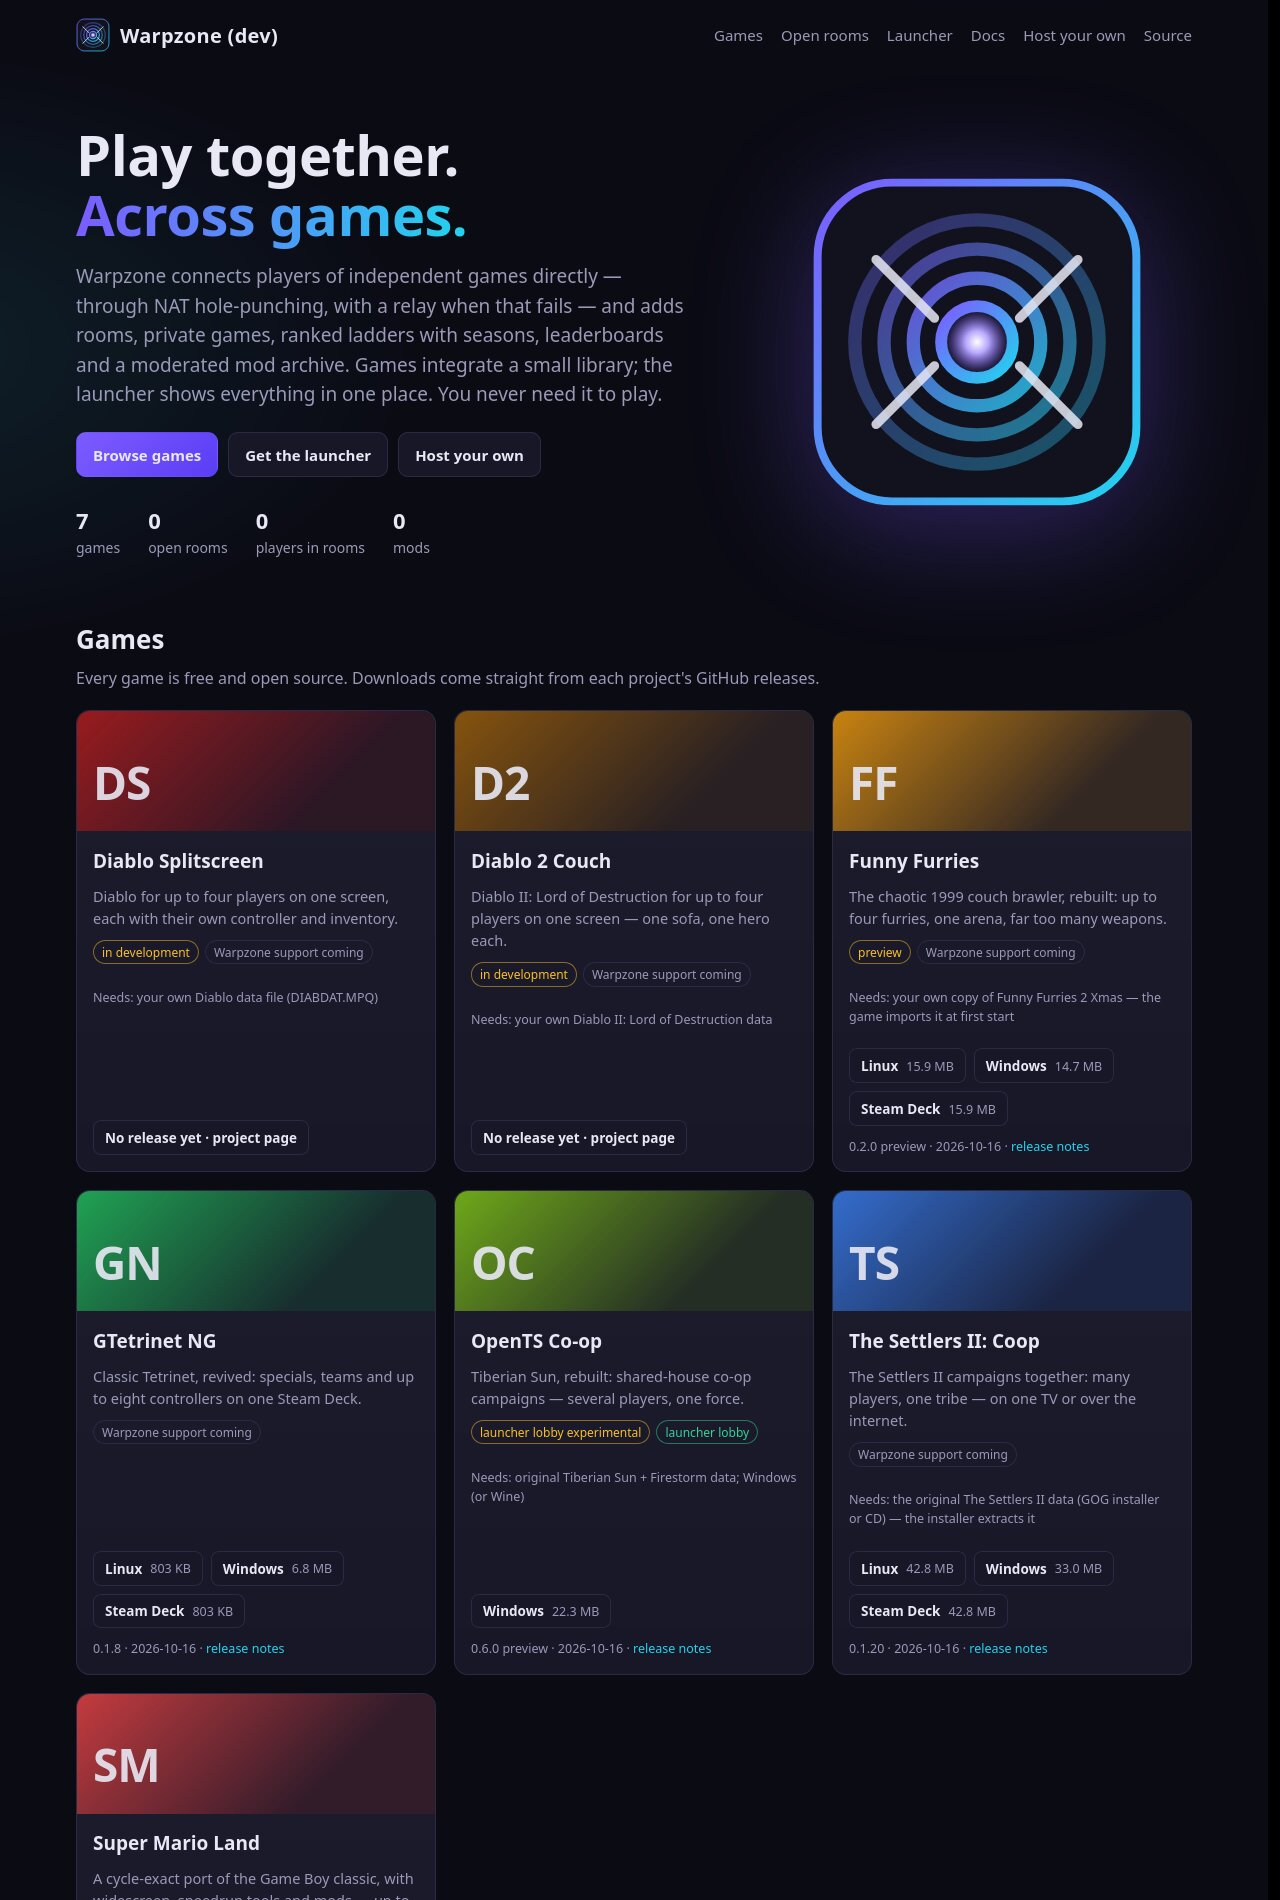
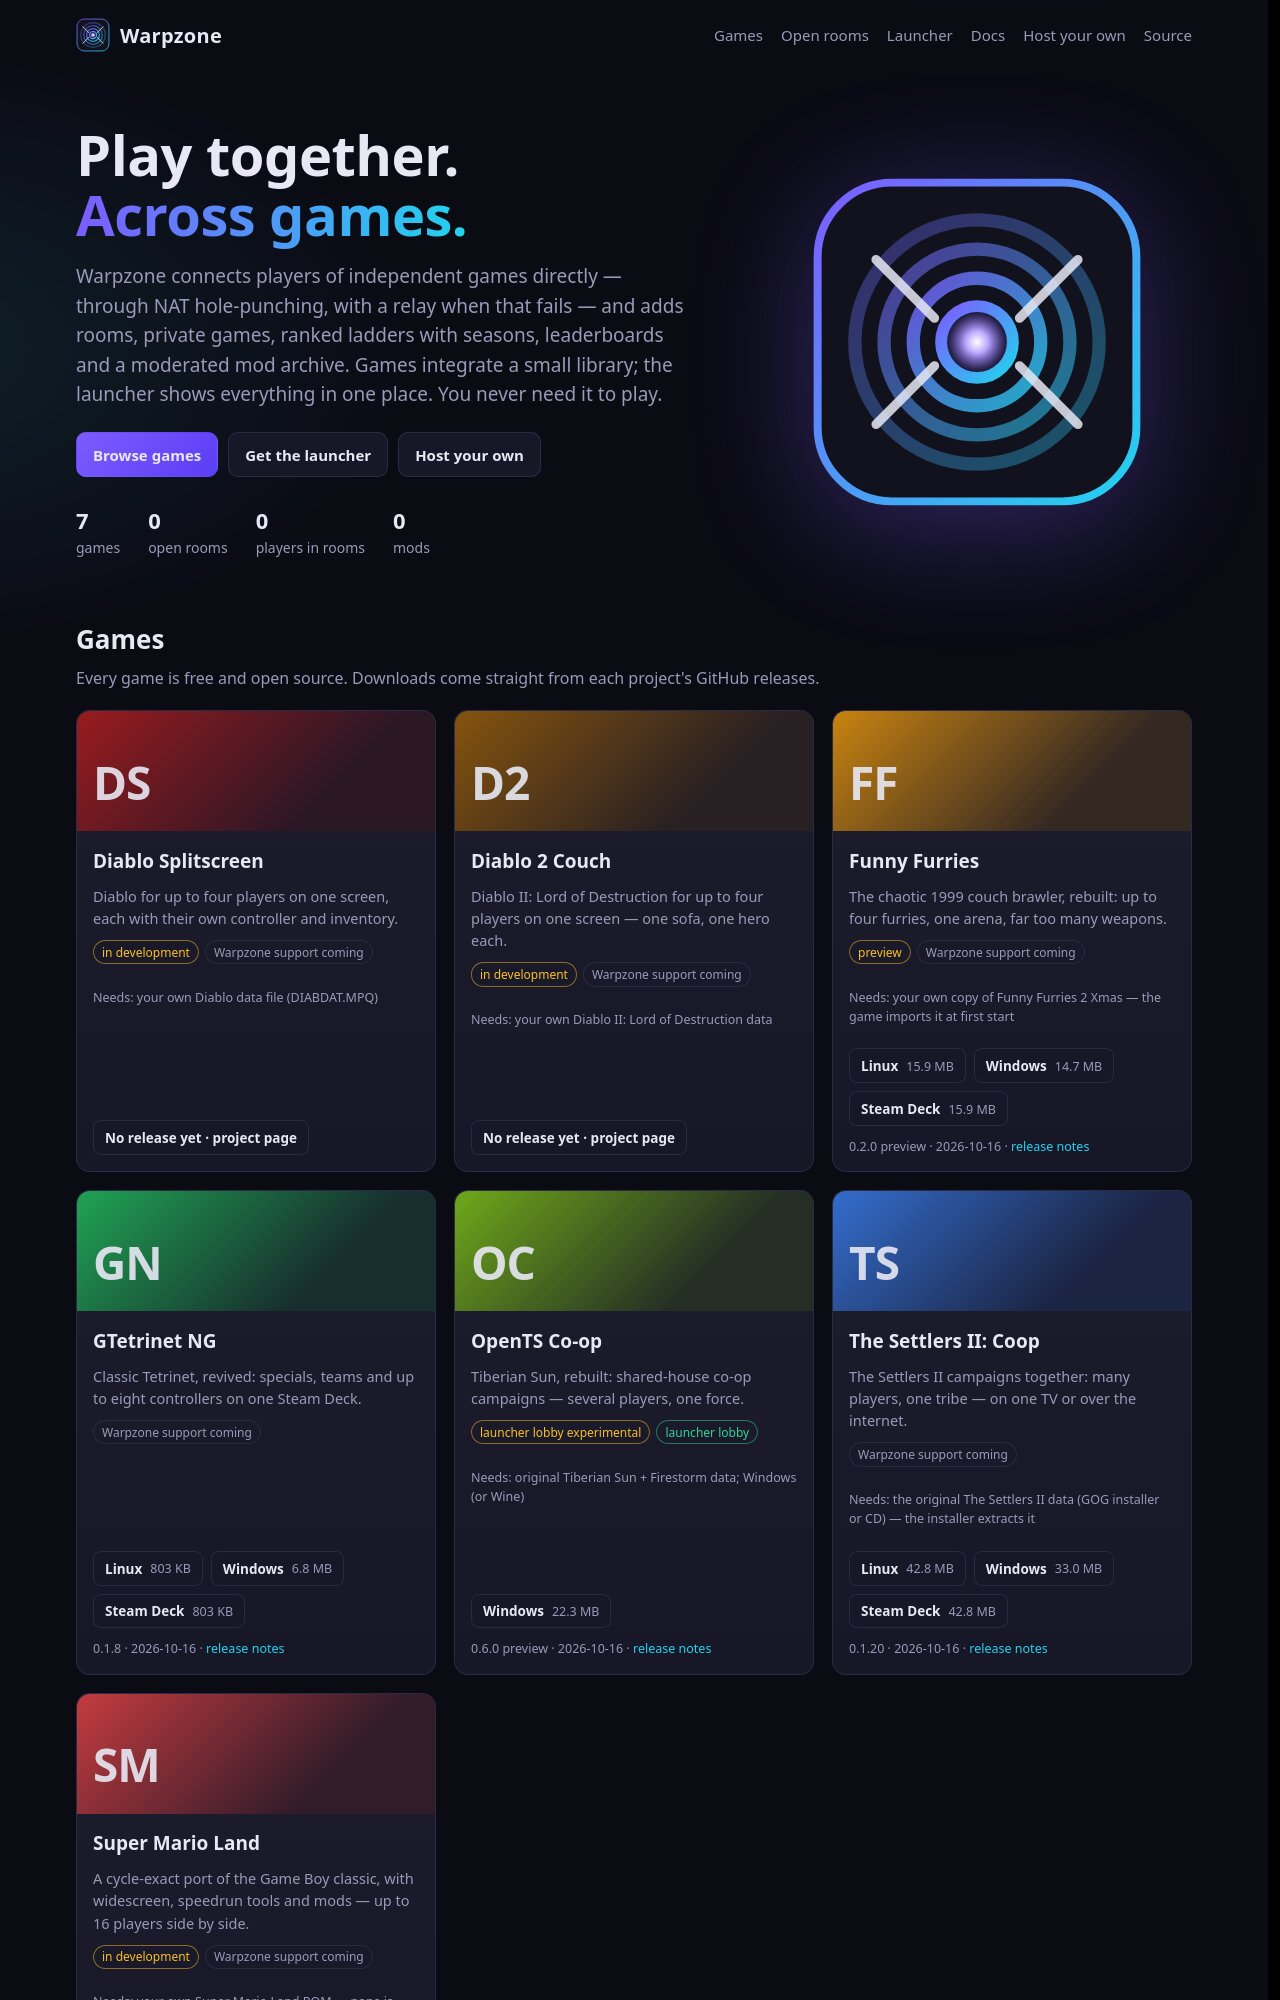
website: generated hero artwork per game (games/art, served from the games directory)

diff --git a/crates/server/src/web.rs b/crates/server/src/web.rs
@@ -92,14 +92,21 @@ fn page(state: &AppState, title: &str, description: &str, body: &str) -> Html<St
     ))
 }
 
-fn banner(g: &GameDescriptor) -> String {
+/// Generated tile artwork next to the descriptors (`games/art/<id>.jpg`,
+/// written by `warpzone --render-art`), if there is no `art` URL.
+fn art_url(state: &AppState, g: &GameDescriptor) -> Option<String> {
+    g.art.clone().or_else(|| state.cfg.games_dir.join("art").join(format!("{}.jpg", g.id)).is_file().then(|| format!("/art/{}.jpg", g.id)))
+}
+
+fn banner(state: &AppState, g: &GameDescriptor) -> String {
     let initials: String = g.name.split_whitespace().filter_map(|w| w.chars().next()).take(2).collect();
-    let img = g.art.as_ref().map(|a| format!(r#"<img src="{}" alt="" loading="lazy">"#, esc(a))).unwrap_or_default();
+    let art = art_url(state, g);
+    let img = art.as_ref().map(|a| format!(r#"<img src="{}" alt="">"#, esc(a))).unwrap_or_default();
     format!(
         r#"<div class="banner" style="background:linear-gradient(135deg,{acc}cc,{acc}22 70%),#151526">{img}<span class="initials">{ini}</span></div>"#,
         acc = esc(&g.accent),
         img = img,
-        ini = if g.art.is_some() { String::new() } else { esc(&initials) }
+        ini = if art.is_some() { String::new() } else { esc(&initials) }
     )
 }
 
@@ -233,7 +240,7 @@ pub async fn index(State(state): State<AppState>) -> Html<String> {
         let _ = write!(
             cards,
             r#"<article class="card">{banner}<div class="body"><h3><a href="/games/{id}">{name}</a></h3><p class="tagline">{tag}</p>{badges}{req}{dl}</div></article>"#,
-            banner = banner(g),
+            banner = banner(&state, g),
             id = esc(&g.id),
             name = esc(&g.name),
             tag = esc(&g.tagline),
@@ -300,13 +307,17 @@ pub async fn game_page(State(state): State<AppState>, Path(id): Path<String>) ->
     let Ok(g) = state.game(&id) else { return not_found(&state) };
     let rooms = list_public(&state, &RoomQuery { game: Some(id.clone()), ..Default::default() });
     let rel = state.releases.read().unwrap().get(&id).cloned();
+    let hero = art_url(&state, &g)
+        .map(|a| format!(r#"<img src="{}" alt="" style="width:100%;max-height:300px;object-fit:cover;border-radius:14px;margin-top:20px">"#, esc(&a)))
+        .unwrap_or_default();
     let mut body = format!(
-        r#"<div class="game-head"><div><h1>{name}</h1><p class="lead muted" style="margin:0">{tag}</p>{badges}</div>
+        r#"{hero}<div class="game-head"><div><h1>{name}</h1><p class="lead muted" style="margin:0">{tag}</p>{badges}</div>
 <div>{home}</div></div>"#,
         name = esc(&g.name),
         tag = esc(&g.tagline),
         badges = badges(&g, rooms.len()),
         home = g.homepage.as_ref().map(|h| format!(r#"<a class="btn" href="{}">Project page</a>"#, esc(h))).unwrap_or_default(),
+        hero = hero,
     );
     let _ = write!(body, r#"<section><div class="panel">{}</div>"#, downloads(rel.as_ref(), g.homepage.as_deref()));
     if !g.description.is_empty() {
@@ -616,6 +627,16 @@ pub fn not_found(state: &AppState) -> Response {
 
 pub async fn fallback(State(state): State<AppState>) -> Response {
     not_found(&state)
+}
+
+/// `/art/<id>.jpg` from `games_dir/art/`.
+pub async fn art_file(State(state): State<AppState>, Path(file): Path<String>) -> Result<Response, ApiError> {
+    let ok = file.ends_with(".jpg") && file.len() < 64 && file.bytes().all(|b| b.is_ascii_alphanumeric() || b == b'-' || b == b'.') && !file.contains("..");
+    if !ok {
+        return Err(ApiError::not_found("no such file"));
+    }
+    let bytes = tokio::fs::read(state.cfg.games_dir.join("art").join(&file)).await.map_err(|_| ApiError::not_found("no such file"))?;
+    Ok(([(header::CONTENT_TYPE, "image/jpeg"), (header::CACHE_CONTROL, "public, max-age=86400")], bytes).into_response())
 }
 
 pub async fn static_file(Path(file): Path<String>) -> Result<Response, ApiError> {

diff --git a/crates/core/src/net.rs b/crates/core/src/net.rs
@@ -752,7 +752,10 @@ impl Net {
                     }
                 }
                 // Keepalive when idle, and an RTT probe every second regardless.
-                if p.crypto.is_some() && p.path.is_some() && (now.duration_since(p.last_send) > KEEPALIVE || now.duration_since(p.last_ping) > Duration::from_secs(1)) {
+                if p.crypto.is_some()
+                    && p.path.is_some()
+                    && (now.duration_since(p.last_send) > KEEPALIVE || now.duration_since(p.last_ping) > Duration::from_secs(1))
+                {
                     p.last_ping = now;
                     ping = true;
                 }

diff --git a/crates/server/src/main.rs b/crates/server/src/main.rs
@@ -223,6 +223,7 @@ pub fn router(state: AppState) -> Router {
         .route("/games/{id}/mods/{name}", get(web::mod_page))
         .route("/join/{id}", get(web::join_page))
         .route("/static/{file}", get(web::static_file))
+        .route("/art/{file}", get(web::art_file))
         .route("/endpoints.json", get(endpoints))
         .route("/healthz", get(|| async { "ok" }))
         .fallback(web::fallback)
